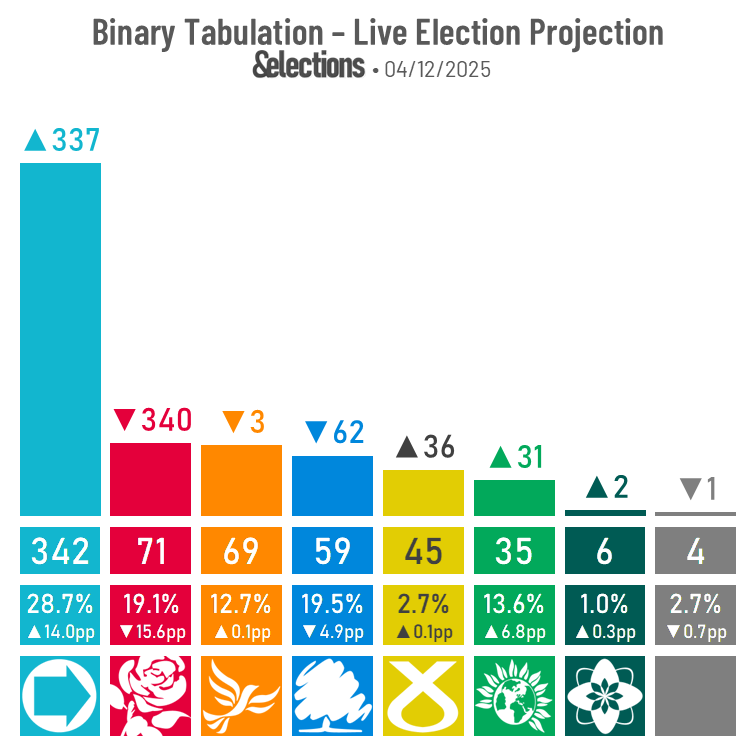
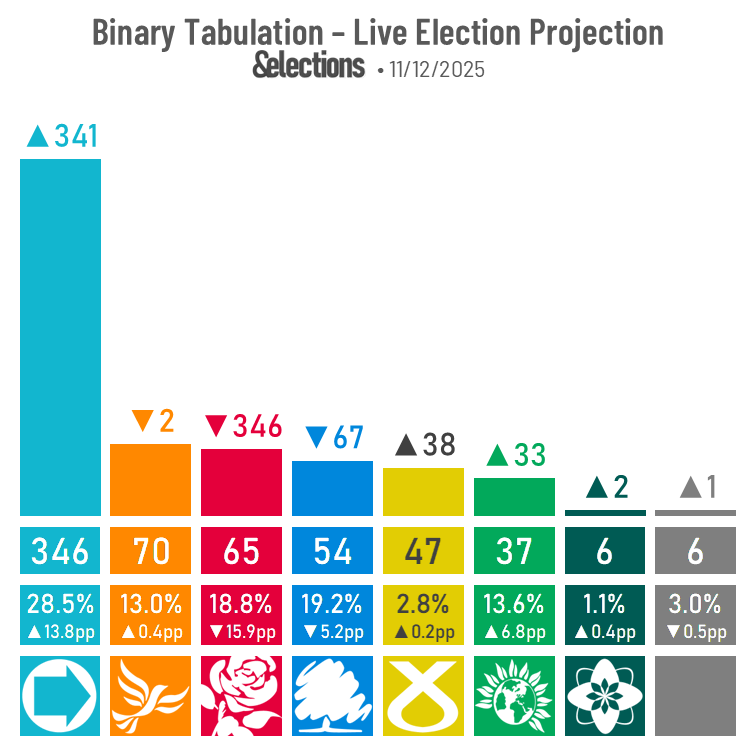
11/12/25 UK Projection (Part 2)
- Added images for 11/12 projection
- Added link for 04/12 projection

diff --git a/index.html b/index.html
@@ -262,6 +262,10 @@
                 </div>
                 <div class="datacontainer" id="data-blog">
                     <div class="blogtitles-container">
+                        <a href="https://andelections.substack.com/p/041225-uk-projection-reform-flounder" title="Open article in new tab" target="_blank" rel="noopener noreferrer">
+                            <h2>04/12/25 UK Projection: Reform Flounder and Tories Regain Ground</h2>
+                            <p>10 Dec 2025 • Reform are down this week as Labour - but more notably the Tories - are up; however, the Lib Dems continue to stagnate.</p>
+                        </a>
                         <a href="https://andelections.substack.com/p/201125-uk-projection-the-green-surge" title="Open article in new tab" target="_blank" rel="noopener noreferrer">
                             <h2>20/11/25 UK Projection: The Green Surge Continues</h2>
                             <p>25 Nov 2025 • The Greens have settled at about 14% support, while Labour's fortunes become increasingly glum.</p>
